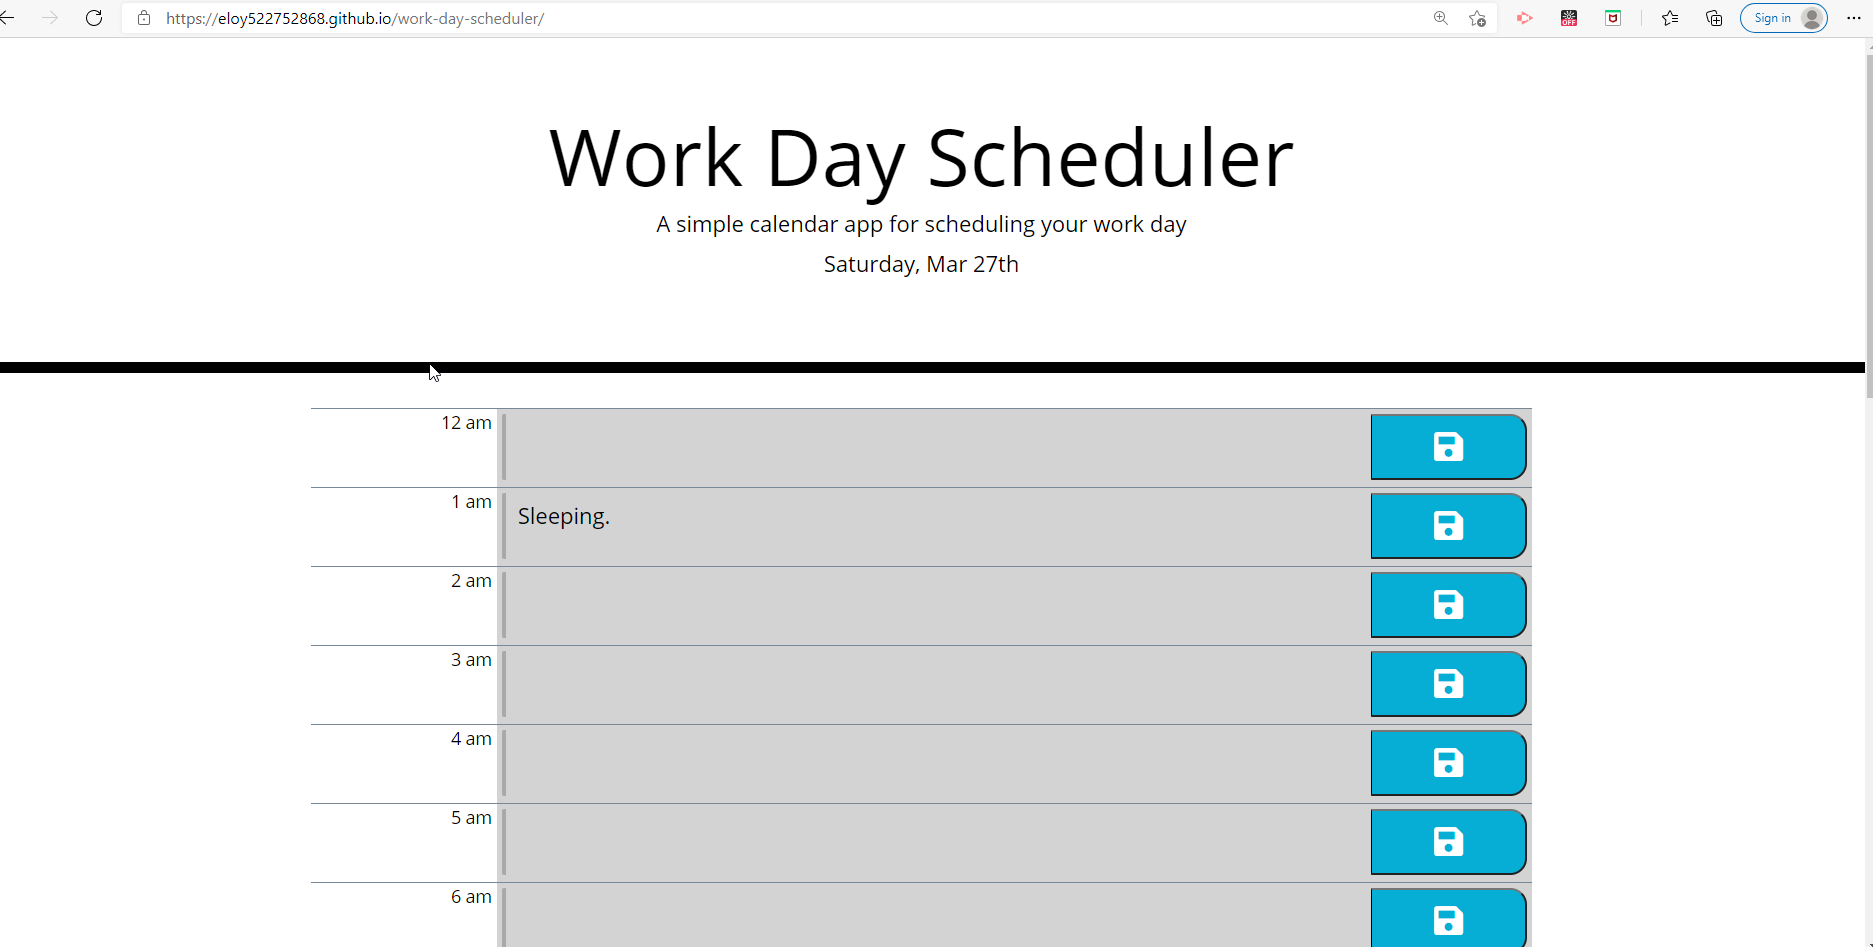
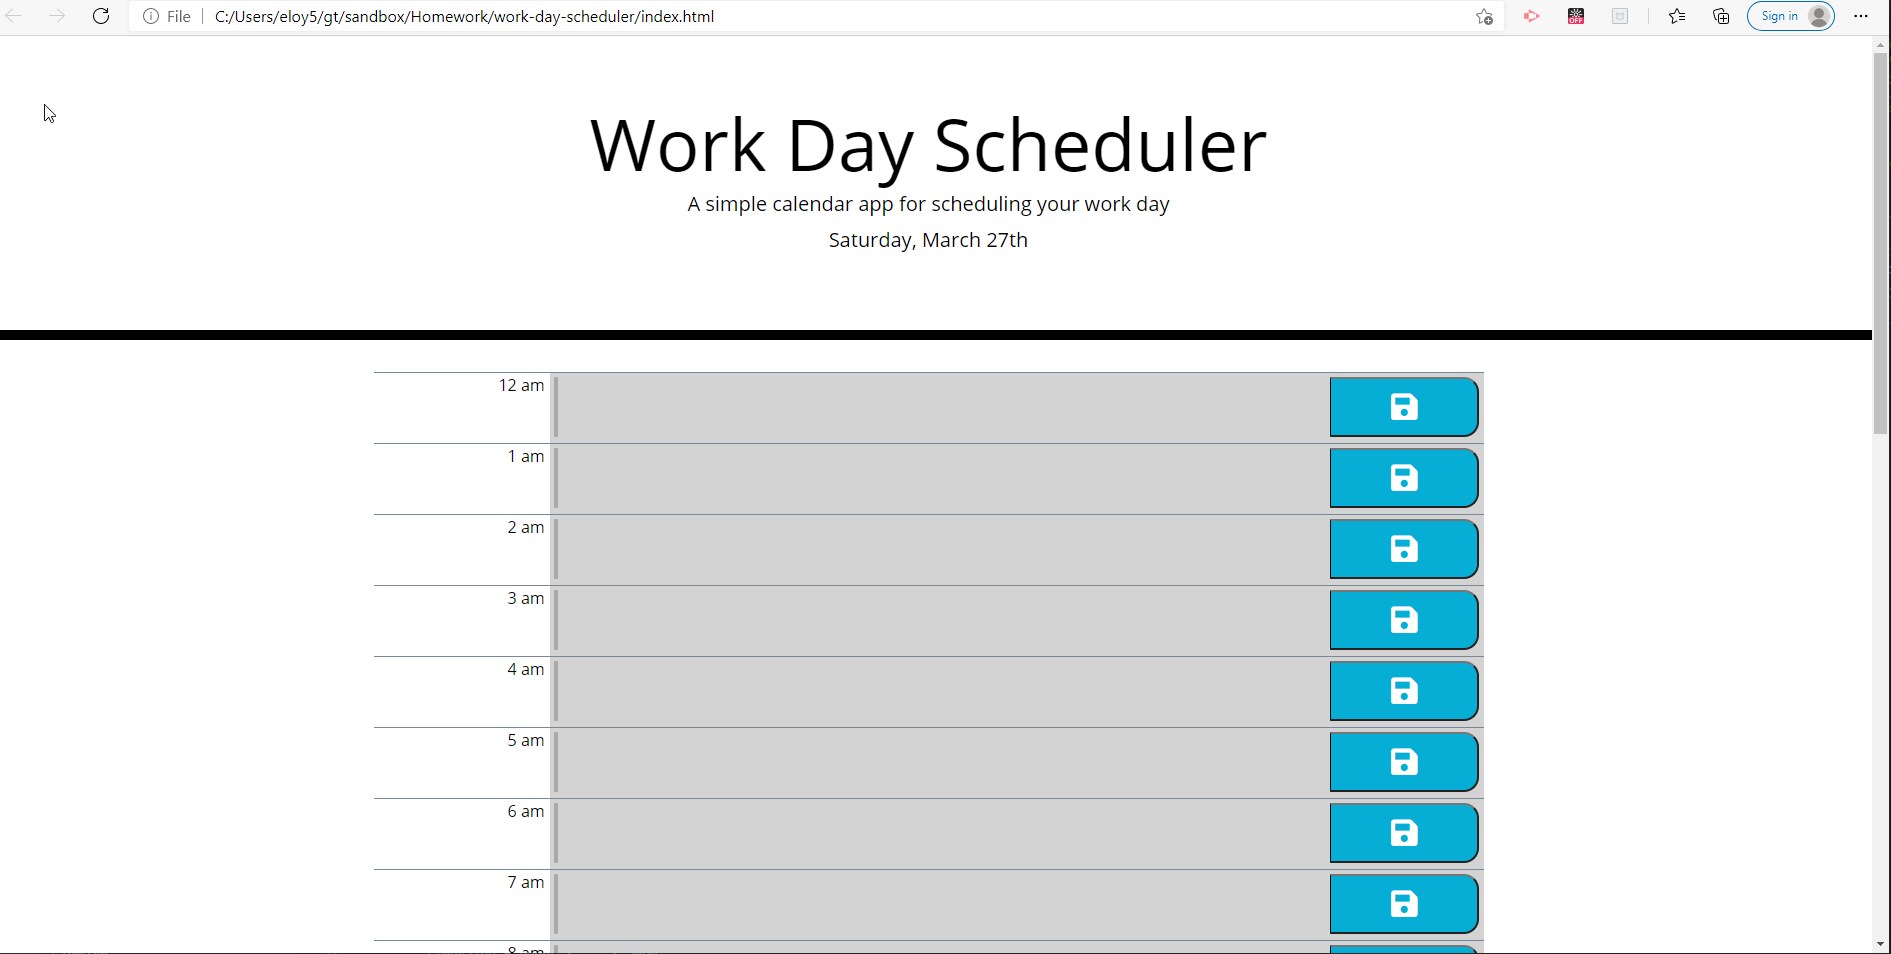
adding lates image

Changed region(s): [[0.0, 0.0, 1.0, 1.0], [0.2787, 0.1225, 0.6813, 0.3062], [0.031, 0.0, 0.3716, 0.0306]]

diff --git a/assets/js/script.js b/assets/js/script.js
@@ -16,7 +16,7 @@
  */
 //Used moments and requested
 
-var currentTime = moment().format("dddd, MMM Do");
+var currentTime = moment().format("dddd, MMMM Do");
 var timeInterval = null;
 var timeLeft = 60;
 var result = []; // Results will go here
